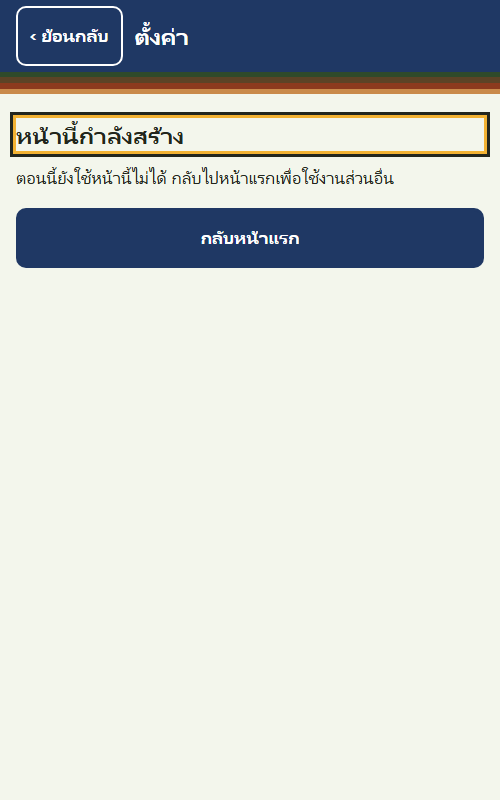
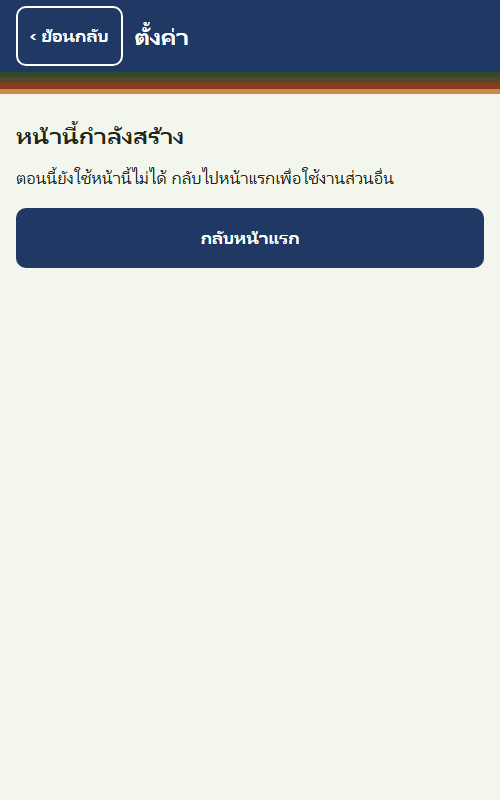
task-05: เอากรอบโฟกัสออกจากหัวข้อที่แอปโฟกัสเอง

Changed region(s): [[0.0, 0.125, 0.99, 0.2188]]

diff --git a/css/style.css b/css/style.css
@@ -78,6 +78,9 @@ a { color: var(--color-primary); text-underline-offset: 3px; }
   box-shadow: 0 0 0 3px var(--color-accent);
 }
 
+/* หัวข้อรับโฟกัสจากแอปตอนเปลี่ยนหน้าเท่านั้น ผู้ใช้กดไม่ได้ จึงไม่ต้องมีกรอบ */
+[tabindex="-1"]:focus { outline: none; box-shadow: none; }
+
 /* โครงหน้า: คอลัมน์เดียว ชิดซ้าย */
 .page {
   width: 100%;
